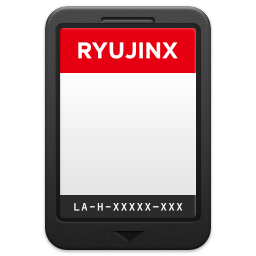
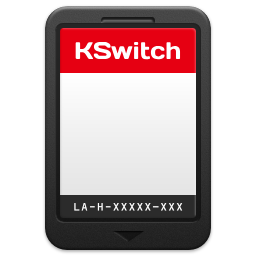
Old Updates (Sheesh.)

Changed region(s): [[0.2812, 0.1562, 0.7188, 0.25]]

diff --git a/src/Ryujinx/UI/Views/Main/MainMenuBarView.axaml.cs b/src/Ryujinx/UI/Views/Main/MainMenuBarView.axaml.cs
@@ -56,7 +56,7 @@ namespace Ryujinx.Ava.UI.Views.Main
         {
             List<MenuItem> menuItems = new();
 
-            string localePath = "Ryujinx/Assets/Locales";
+            string localePath = "KSwitch/Assets/Locales";
             string localeExt = ".json";
 
             string[] localesPath = EmbeddedResources.GetAllAvailableResources(localePath, localeExt);
